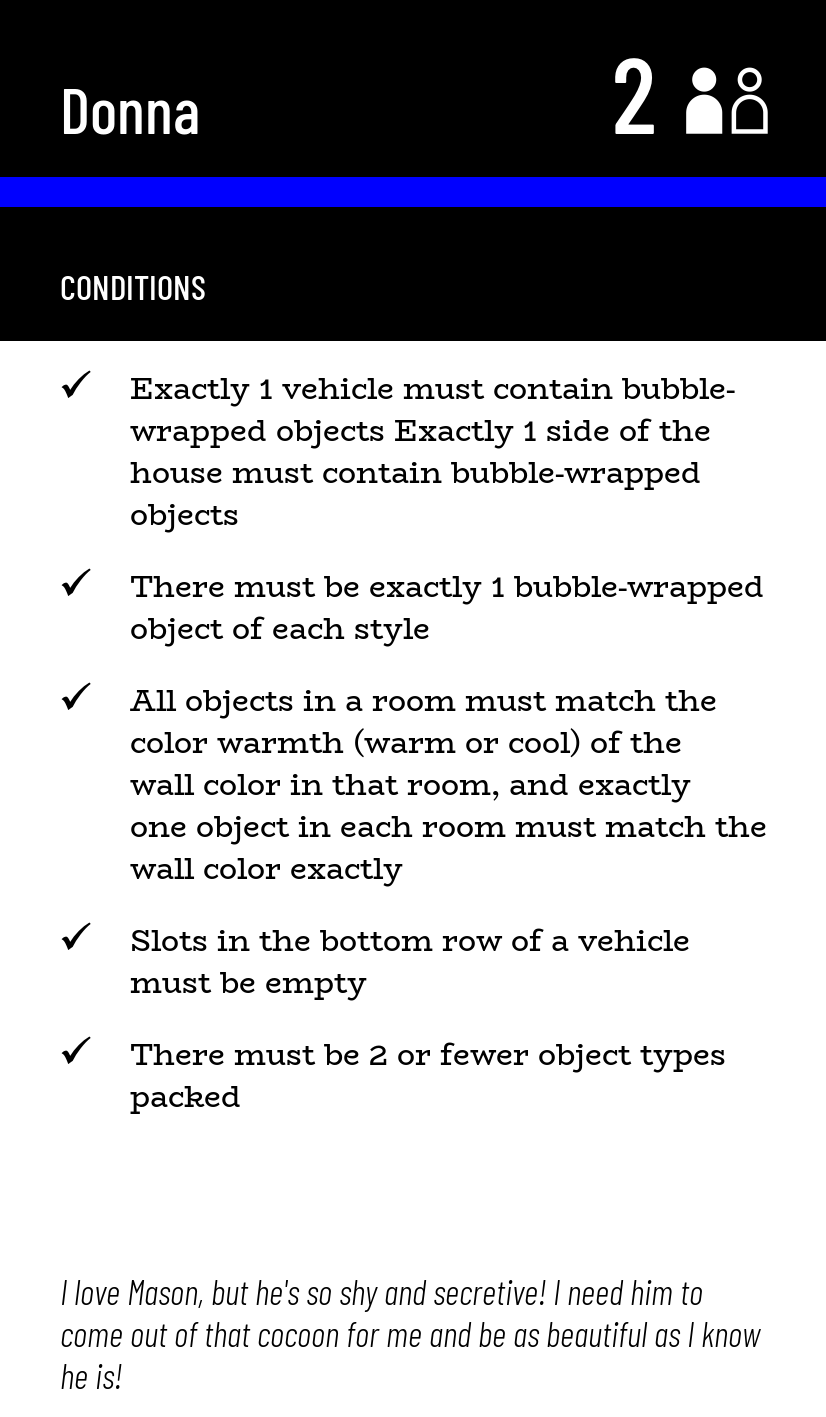
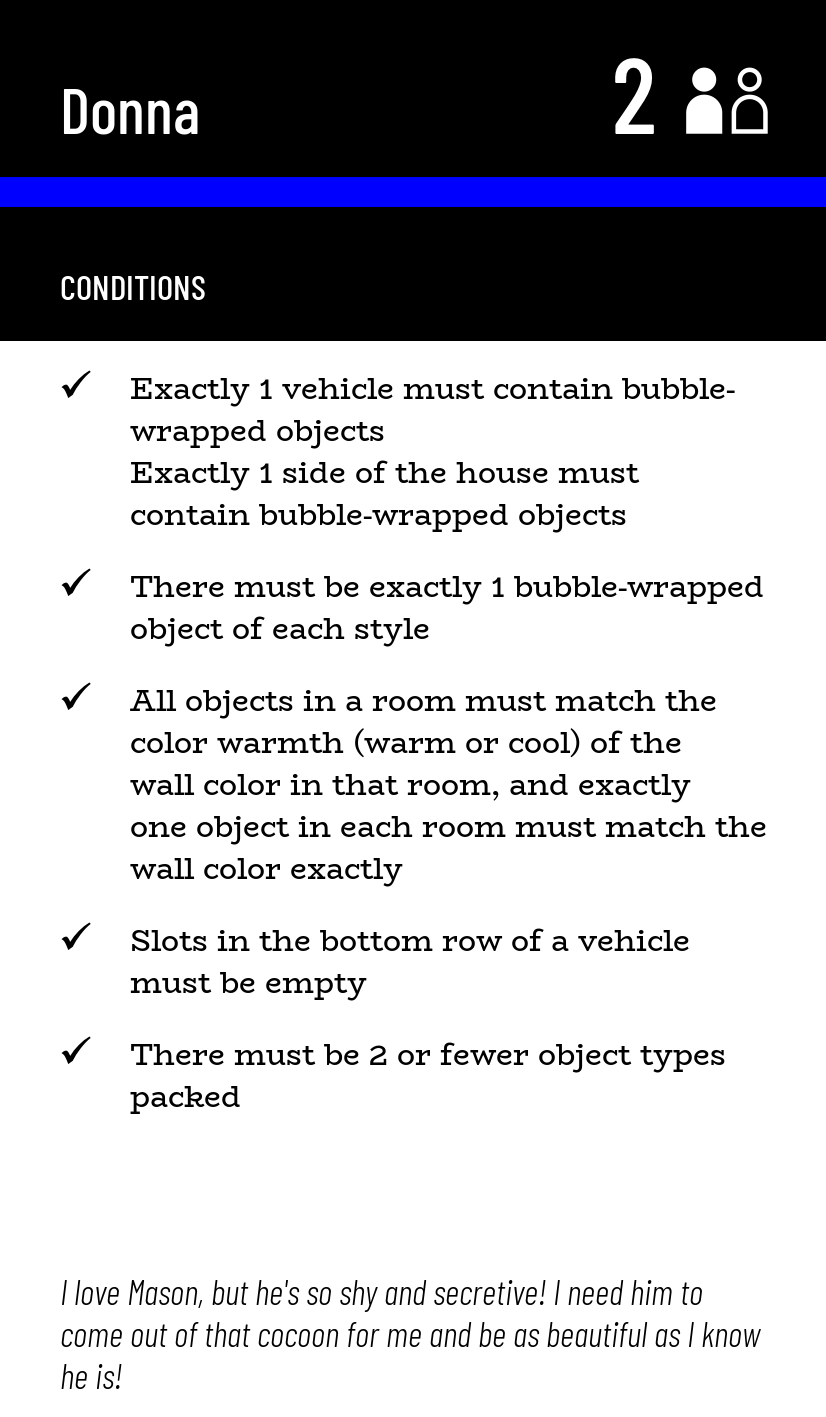
adding word wrap split

Changed region(s): [[0.1513, 0.2795, 0.8475, 0.3726]]

diff --git a/makeCards.py b/makeCards.py
@@ -35,30 +35,45 @@ for index, row in df.iterrows():
 	conditionFour = str(row['condition 4'])
 	conditionFive = str(row['condition 5'])
 
-	#Set the font size by the length of the conditions in  each Scenario
-	scenarioLength = (len(conditionOne))+(len(conditionTwo))+(len(conditionThree))+(len(conditionFour))+(len(conditionFive))
+	#default line size
+	conditionsFont = ImageFont.truetype("fonts/BioRhyme-Regular.ttf", 30)
+	varSize = 38
 
-	if scenarioLength < 550:
-		conditionsFont = ImageFont.truetype("fonts/BioRhyme-Regular.ttf", 30)
-		bullet1 = textwrap.wrap(conditionOne, width= 38)
-		bullet2 = textwrap.wrap(conditionTwo, width= 38)
-		bullet3 = textwrap.wrap(conditionThree, width= 38)
-		bullet4 = textwrap.wrap(conditionFour, width= 38)
-		bullet5 = textwrap.wrap(conditionFive, width= 38)
-	if  scenarioLength > 550:
+	temp = conditionOne.split('\n')
+	tempList = list()
+
+	bullet1 = textwrap.wrap(conditionOne, width= varSize)
+
+	if len(temp)>1:
+		for line in temp:
+			tempList = tempList + textwrap.wrap(line, width= varSize)
+		bullet1 = tempList
+
+	bullet2 = textwrap.wrap(conditionTwo, width= varSize)
+	bullet3 = textwrap.wrap(conditionThree, width= varSize)
+	bullet4 = textwrap.wrap(conditionFour, width= varSize)
+	bullet5 = textwrap.wrap(conditionFive, width= varSize)
+
+	if len(bullet1)+len(bullet2)+len(bullet3)+len(bullet4)+len(bullet5) >17:
 		conditionsFont = ImageFont.truetype("fonts/BioRhyme-Regular.ttf", 26)
-		bullet1 = textwrap.wrap(conditionOne, width= 42)
-		bullet2 = textwrap.wrap(conditionTwo, width= 42)
-		bullet3 = textwrap.wrap(conditionThree, width= 42)
-		bullet4 = textwrap.wrap(conditionFour, width= 42)
-		bullet5 = textwrap.wrap(conditionFive, width= 42)
-	if scenarioLength > 774:
-		conditionsFont = ImageFont.truetype("fonts/BioRhyme-Regular.ttf", 24)
-		bullet1 = textwrap.wrap(conditionOne, width= 48)
-		bullet2 = textwrap.wrap(conditionTwo, width= 48)
-		bullet3 = textwrap.wrap(conditionThree, width= 48)
-		bullet4 = textwrap.wrap(conditionFour, width= 48)
-		bullet5 = textwrap.wrap(conditionFive, width= 48)
+		varSize = 42
+
+		bullet1 = textwrap.wrap(conditionOne, width= varSize)
+		bullet2 = textwrap.wrap(conditionTwo, width= varSize)
+		bullet3 = textwrap.wrap(conditionThree, width= varSize)
+		bullet4 = textwrap.wrap(conditionFour, width= varSize)
+		bullet5 = textwrap.wrap(conditionFive, width= varSize)
+
+		if len(bullet1)+len(bullet2)+len(bullet3)+len(bullet4)+len(bullet5) >20:
+
+			conditionsFont = ImageFont.truetype("fonts/BioRhyme-Regular.ttf", 24)
+			varSize = 48
+
+			bullet1 = textwrap.wrap(conditionOne, width= varSize)
+			bullet2 = textwrap.wrap(conditionTwo, width= varSize)
+			bullet3 = textwrap.wrap(conditionThree, width= varSize)
+			bullet4 = textwrap.wrap(conditionFour, width= varSize)
+			bullet5 = textwrap.wrap(conditionFive, width= varSize)
 
 	# Calculate text size for wrapping
 	conditionsFontSize = conditionsFont.getbbox(conditionOne);
@@ -119,15 +134,21 @@ for index, row in df.iterrows():
 	
 	# Draw conditions in wrapped lines of text on the card 
 	# The first line of each condition has a check mark
-	Image.Image.paste(card, checkImage, (60, conditionHeight))
+	onecounter = 0
 	for line in bullet1:
+		if onecounter == 0:
+			Image.Image.paste(card, checkImage, (60, conditionHeight))
 		draw.text((130, conditionHeight), line, fill='black', font=conditionsFont)
 		conditionHeight += conditionsFontSize[3] # Move to the next line
+		onecounter += 1
 
-	Image.Image.paste(card, checkImage, (60, conditionHeight+30))
+	twocounter = 0
 	for line in bullet2:
+		if twocounter == 0:
+			Image.Image.paste(card, checkImage, (60, conditionHeight+30))
 		draw.text((130, conditionHeight+30), line, fill='black', font=conditionsFont)
 		conditionHeight += conditionsFontSize[3] # Move to the next line
+		twocounter += 1
 
 	threecounter = 0
 	for line in bullet3:
